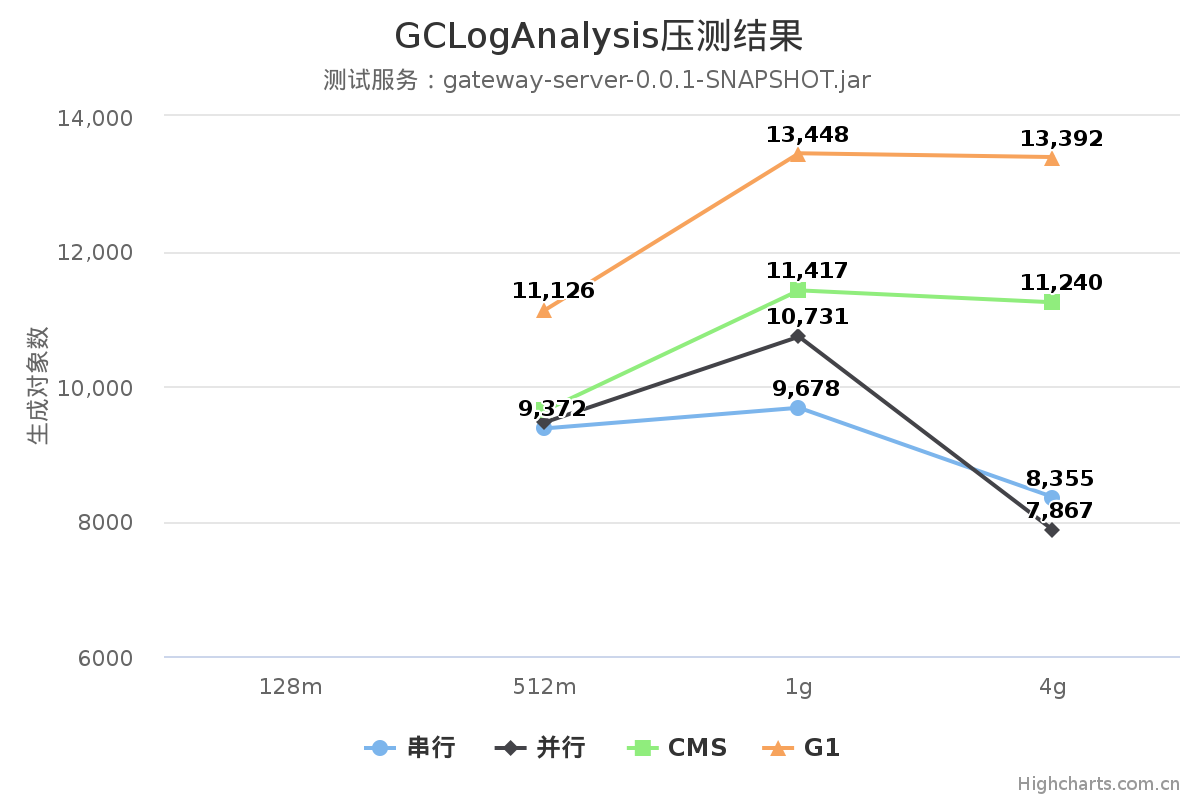
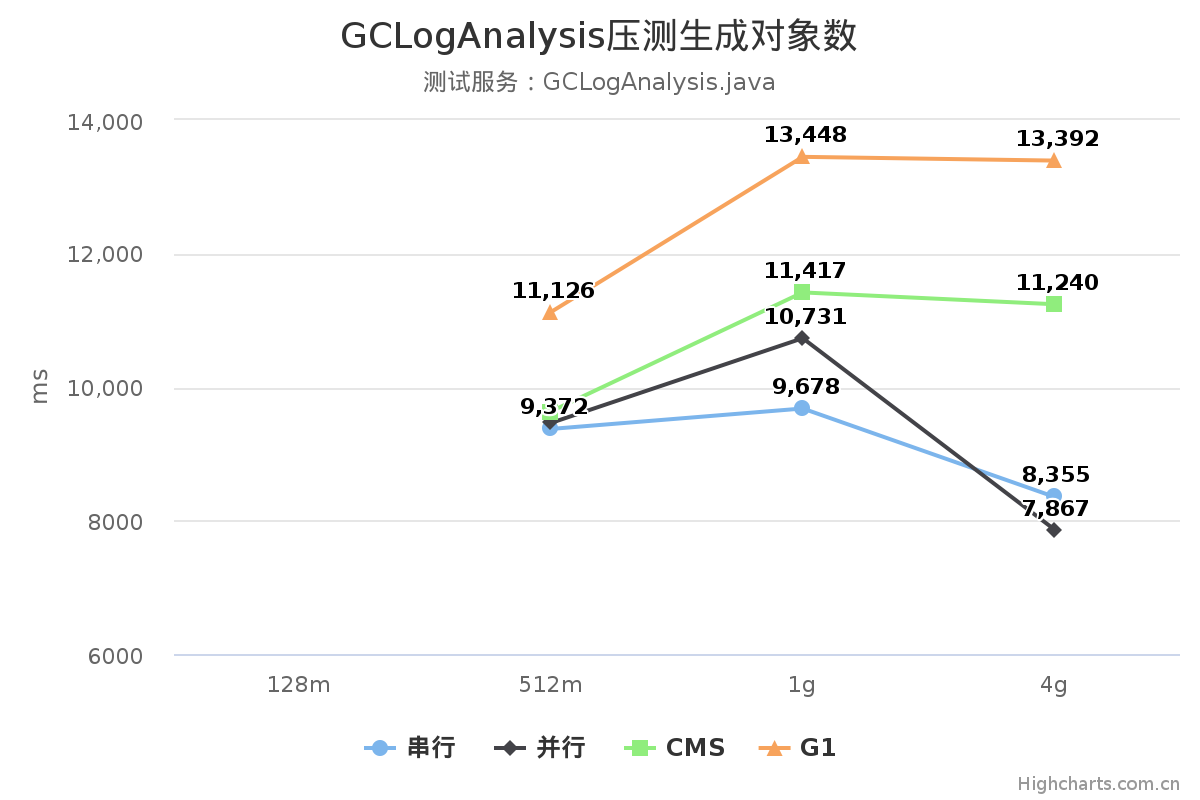
不同GC的总结

diff --git a/Week_02/01-GCLogAnalysisTest/README.md b/Week_02/01-GCLogAnalysisTest/README.md
@@ -1,6 +1,6 @@
 ## 作业1. 使用 GCLogAnalysis.java 自己演练一遍串行/并行/CMS/G1的案例。
 
-
+### 测试结果：
 
 |GC类别  | JVM堆大小  | Minor GC次数 | Full GC次数 | 是否OOM  | 生成对象数 | GC 暂停时间| 单次最大GC暂停时间|
 |------ | ----      | ----        | ----       |----     |----  | ---- |
@@ -12,15 +12,20 @@
 |并行    |512m       |34           |7             |否       | 9463 | 550ms | 40ms |
 |并行    |1g         |17           |1             |否       |10731 | 470ms | 60ms |
 |并行    |4g         |2            |0             |否       | 7867 | 340ms | 200ms|
-|CMS    |128m       |7            |11            |是       | -    | 
-|CMS    |512m       |12           |0             |否       | 9636 |
-|CMS    |1g         |10           |0             |否       |11417 |
+|CMS    |128m       |7            |11            |是       | -    | 200ms | 50ms |
+|CMS    |512m       |12           |0             |否       | 9636 | 880ms | 150ms|
+|CMS    |1g         |10           |0             |否       |11417 | 540ms | 70ms |
 |CMS    |4g         |5            |0             |否       |11240 | 380ms | 90ms |
 |G1     |128m       |68           |9             |是       | -    | 80ms | 10ms |
 |G1     |512m       |194          |3             |否       |11126 | 510ms| 40ms |
 |G1     |1g         |44           |0             |否       |13448 | 310ms| 40ms | 
 |G1     |4g         |14           |0             |否       |13392 | 460ms| 70ms |
 
+### 吞吐量-生成对象数
+![GCLogAnalysis压测结果](https://github.com/yzsever/JAVA-000/blob/main/Week_02/01-GCLogAnalysisTest/01-GCLogAnalysis%E5%8E%8B%E6%B5%8B%E7%BB%93%E6%9E%9C.png?raw=true)
+
+### GC暂停时间
+![GCLogAnalysis压测总暂停时间](https://github.com/yzsever/JAVA-000/blob/main/Week_02/01-GCLogAnalysisTest/01-GCLogAnalysis压测最大暂停时间.png?raw=true)
 
 ## 测试数据
 

diff --git a/Week_02/02-gateway-serverTest/README.md b/Week_02/02-gateway-serverTest/README.md
@@ -1,6 +1,6 @@
 ## 作业2. 使用压测工具(wrk或sb)，演练gateway-server-0.0.1-SNAPSHOT.jar 示例。
 
-
+### 测试结果
 |GC类别  | JVM堆大小  | RPS         | 
 |------ | ----      | ----        |  
 |串行    |128m       |41566.23     |
@@ -20,7 +20,8 @@
 |G1     |1g         |40370.64     |
 |G1     |4g         |39904.20     |
 
-
+### 吞吐量
+![gateway-server压测结果](https://github.com/yzsever/JAVA-000/blob/main/Week_02/02-gateway-serverTest/01-gateway-server压测结果.png?raw=true)
 
 ## 测试数据
 ### 串行GC
